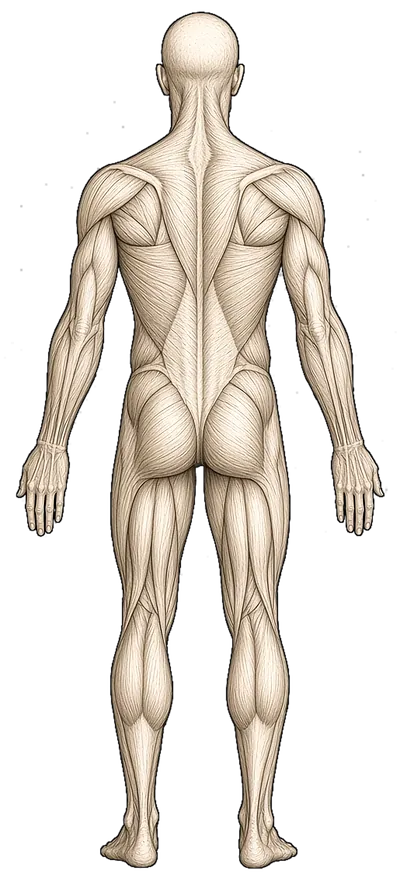
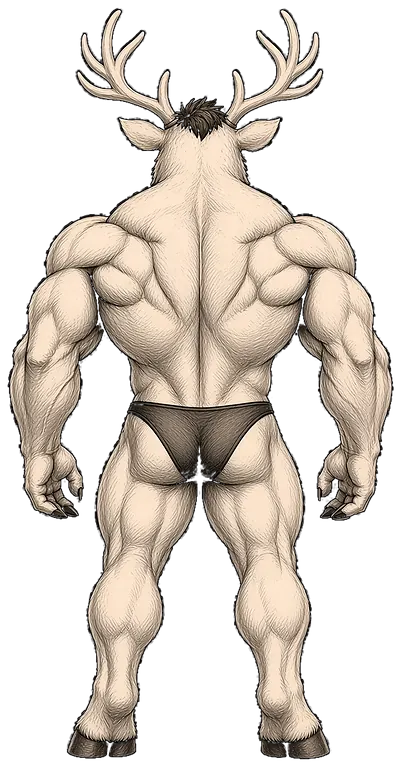
v249: Rudolph mascot anatomy studies, equal-height exercise cards

diff --git a/index.html b/index.html
@@ -1030,22 +1030,19 @@
     .exercise-card .exercise-btn:active { background: transparent; }
     .exercise-card .exercise-btn h2 { margin: 0; padding: 0; font-size: 19px; font-weight: 800; line-height: 1.2; overflow-wrap: anywhere; }
     .exercise-card .exercise-btn .scheme { margin: 3px 0 8px; font-size: 13px; font-weight: 600; line-height: 1.3; color: var(--mute); }
-    .ex-card-body { display: flex; align-items: stretch; gap: 8px; min-width: 0; }
-    .ex-card-copy { flex: 1 1 0; min-width: 0; }
+    .ex-card-body { display: block; position: relative; min-width: 0; padding-right: 124px; }
+    .ex-card-copy { min-width: 0; }
     .ex-muscle {
-      flex: 0 0 40%;
-      width: 40%;
-      max-width: 152px;
-      min-width: 100px;
-      min-height: 124px;
+      position: absolute;
+      right: 0;
+      top: 0;
+      bottom: 0;
+      width: 116px;
       color: var(--mute);
       pointer-events: none;
-      align-self: stretch;
-      display: flex;
-      align-items: center;
-      justify-content: center;
+      overflow: hidden;
     }
-    .ex-muscle svg { width: 100%; height: 100%; display: block; overflow: hidden; }
+    .ex-muscle svg { width: 100%; height: 100%; display: block; }
     .ex-muscle-hit.secondary { fill: var(--acc); fill-opacity: 0.28; stroke: none; mix-blend-mode: color; }
     .ex-muscle-glow { fill: var(--acc); fill-opacity: 0.32; filter: blur(8px); stroke: none; }
     .ex-muscle-hit.primary { fill: var(--acc); fill-opacity: 0.52; stroke: none; mix-blend-mode: color; filter: drop-shadow(0 0 4px var(--acc)); }
@@ -5108,53 +5105,53 @@
 
     const MUSCLE_BACK_VIEW = { lats: 1, upperBack: 1, traps: 1, rearDelts: 1, hamstrings: 1, calves: 1, glutes: 1 };
     const MUSCLE_FIGURE_SRC = { front: "figures/anatomy-front.webp", back: "figures/anatomy-back.webp" };
-    const MUSCLE_FIGURE_SIZE = { w: 515, h: 1143 };
+    const MUSCLE_FIGURE_SIZE = { w: 620, h: 1200 };
     const MUSCLE_CROP = {
       front: {
-        neck: [148, 0, 224, 236],
-        chest: [55, 140, 408, 290],
-        shoulders: [40, 145, 438, 270],
-        triceps: [0, 160, 515, 335],
-        biceps: [0, 160, 515, 335],
-        abs: [135, 210, 248, 285],
-        quads: [140, 475, 238, 430],
-        calves: [150, 755, 218, 380],
-        traps: [110, 140, 298, 260]
+        neck: [140, 0, 356, 430],
+        chest: [60, 280, 500, 350],
+        shoulders: [70, 240, 480, 460],
+        triceps: [0, 300, 620, 420],
+        biceps: [0, 300, 620, 420],
+        abs: [155, 360, 326, 330],
+        quads: [165, 640, 306, 430],
+        calves: [175, 900, 268, 290],
+        traps: [140, 260, 356, 260]
       },
       back: {
-        neck: [148, 0, 224, 230],
-        traps: [115, 15, 288, 300],
-        rearDelts: [50, 140, 418, 265],
-        upperBack: [90, 125, 338, 330],
-        lats: [85, 145, 348, 355],
-        triceps: [0, 160, 515, 335],
-        glutes: [145, 448, 228, 285],
-        hamstrings: [140, 468, 238, 430],
-        calves: [150, 755, 218, 385]
+        neck: [140, 0, 356, 420],
+        traps: [140, 80, 356, 330],
+        rearDelts: [70, 230, 480, 450],
+        upperBack: [130, 275, 376, 340],
+        lats: [80, 300, 476, 360],
+        triceps: [0, 300, 620, 420],
+        glutes: [170, 575, 296, 260],
+        hamstrings: [165, 620, 306, 430],
+        calves: [175, 900, 268, 290]
       }
     };
     const MUSCLE_HIGHLIGHT = {
       front: {
-        neck: "M236 155C232 172 236 198 248 210C258 216 268 210 280 198C284 172 280 155 258 150C246 150 239 152 236 155Z",
-        traps: "M188 188C165 200 150 218 165 230C200 222 230 208 258 214C258 202 258 194 258 186C230 186 205 186 188 188Z M 328 188 C 351 200 366 218 351 230 C 316 222 286 208 258 214 C 258 202 258 194 258 186 C 286 186 311 186 328 188 Z",
-        shoulders: "M132 210C108 228 104 268 126 302C150 314 172 294 174 262C172 232 156 210 132 210Z M 384 210 C 408 228 412 268 390 302 C 366 314 344 294 342 262 C 344 232 360 210 384 210 Z",
-        chest: "M200 244C178 252 170 282 176 314C188 336 224 344 256 328C258 298 254 262 240 248C224 238 210 240 200 244Z M 316 244 C 338 252 346 282 340 314 C 328 336 292 344 260 328 C 258 298 262 262 276 248 C 292 238 306 240 316 244 Z",
-        biceps: "M108 290C94 314 94 360 108 398C126 408 142 388 142 350C140 314 124 290 108 290Z M 408 290 C 422 314 422 360 408 398 C 390 408 374 388 374 350 C 376 314 392 290 408 290 Z",
-        triceps: "M82 275C68 305 68 368 82 420C98 428 112 395 108 340C104 300 96 278 82 275Z M 434 275 C 448 305 448 368 434 420 C 418 428 404 395 408 340 C 412 300 420 278 434 275 Z",
-        abs: "M214 324C206 350 206 408 216 452C230 466 248 466 258 460C258 400 258 350 258 324C242 320 226 320 214 324Z M190 345C178 375 178 428 194 462C210 470 224 450 226 418C226 380 214 350 200 345C196 343 192 343 190 345Z M 302 324 C 310 350 310 408 300 452 C 286 466 268 466 258 460 C 258 400 258 350 258 324 C 274 320 290 320 302 324 Z M 326 345 C 338 375 338 428 322 462 C 306 470 292 450 290 418 C 290 380 302 350 316 345 C 320 343 324 343 326 345 Z",
-        quads: "M190 522C170 560 160 650 170 745C184 778 216 780 232 752C244 680 244 585 230 532C218 512 198 510 190 522Z M222 705C214 742 214 772 228 788C246 794 258 776 258 752C256 724 240 704 222 705Z M 326 522 C 346 560 356 650 346 745 C 332 778 300 780 284 752 C 272 680 272 585 286 532 C 298 512 318 510 326 522 Z M 294 705 C 302 742 302 772 288 788 C 270 794 258 776 258 752 C 260 724 276 704 294 705 Z",
-        calves: "M192 805C178 850 174 925 184 998C198 1024 224 1018 230 975C232 900 220 830 202 808C198 804 194 804 192 805Z M 324 805 C 338 850 342 925 332 998 C 318 1024 292 1018 286 975 C 284 900 296 830 314 808 C 318 804 322 804 324 805 Z"
+        neck: "M248 348C242 368 252 392 285 404C318 412 351 404 384 392C394 368 384 348 318 340C285 338 254 340 248 348Z",
+        traps: "M200 315C165 335 155 365 185 380C230 368 275 348 318 358C318 340 318 328 318 318C270 312 230 312 200 315Z M 436 315 C 471 335 481 365 451 380 C 406 368 361 348 318 358 C 318 340 318 328 318 318 C 366 312 406 312 436 315 Z",
+        shoulders: "M125 340C80 365 70 430 110 490C160 510 200 470 205 420C200 370 165 335 125 340Z M 511 340 C 556 365 566 430 526 490 C 476 510 436 470 431 420 C 436 370 471 335 511 340 Z",
+        chest: "M200 375C160 395 155 455 180 500C225 522 275 512 314 488C318 440 305 390 255 372C230 365 212 368 200 375Z M 436 375 C 476 395 481 455 456 500 C 411 522 361 512 322 488 C 318 440 331 390 381 372 C 406 365 424 368 436 375 Z",
+        biceps: "M95 390C55 425 42 505 58 585C72 645 120 668 160 625C185 580 182 500 160 435C142 395 118 378 95 390Z M 541 390 C 581 425 594 505 578 585 C 564 645 516 668 476 625 C 451 580 454 500 476 435 C 494 395 518 378 541 390 Z",
+        triceps: "M40 380C14 430 8 530 24 630C36 690 78 712 108 665C120 600 108 500 95 425C82 385 62 368 40 380Z M 596 380 C 622 430 628 530 612 630 C 600 690 558 712 528 665 C 516 600 528 500 541 425 C 554 385 574 368 596 380 Z",
+        abs: "M235 500C218 540 218 595 235 635C260 655 295 655 318 645C318 575 318 530 318 500C285 492 255 492 235 500Z M200 520C180 560 182 615 205 650C230 662 255 640 258 600C258 555 235 525 215 518C208 516 204 516 200 520Z M 401 500 C 418 540 418 595 401 635 C 376 655 341 655 318 645 C 318 575 318 530 318 500 C 351 492 381 492 401 500 Z M 436 520 C 456 560 454 615 431 650 C 406 662 381 640 378 600 C 378 555 401 525 421 518 C 428 516 432 516 436 520 Z",
+        quads: "M205 675C175 735 168 845 190 930C215 960 255 955 275 905C290 805 285 725 260 680C240 655 218 658 205 675Z M245 850C232 900 235 940 258 958C285 968 305 945 308 910C306 875 275 848 245 850Z M 431 675 C 461 735 468 845 446 930 C 421 960 381 955 361 905 C 346 805 351 725 376 680 C 396 655 418 658 431 675 Z M 391 850 C 404 900 401 940 378 958 C 351 968 331 945 328 910 C 330 875 361 848 391 850 Z",
+        calves: "M205 960C185 1005 180 1075 205 1125C230 1148 265 1138 272 1085C275 1025 250 970 220 958C214 955 208 956 205 960Z M 431 960 C 451 1005 456 1075 431 1125 C 406 1148 371 1138 364 1085 C 361 1025 386 970 416 958 C 422 955 428 956 431 960 Z"
       },
       back: {
-        neck: "M236 148C232 165 236 188 248 202C258 208 268 202 280 188C284 165 280 148 258 142C246 142 239 144 236 148Z",
-        traps: "M185 165C145 200 130 228 155 248C195 238 230 222 258 240C258 210 258 180 258 158C225 155 200 158 185 165Z M 331 165 C 371 200 386 228 361 248 C 321 238 286 222 258 240 C 258 210 258 180 258 158 C 291 155 316 158 331 165 Z",
-        rearDelts: "M128 208C105 226 102 262 122 294C148 304 170 284 172 256C168 226 150 208 128 208Z M 388 208 C 411 226 414 262 394 294 C 368 304 346 284 344 256 C 348 226 366 208 388 208 Z",
-        upperBack: "M205 238C218 230 240 232 258 246C258 282 250 322 238 345C220 335 205 288 205 238Z M 311 238 C 298 230 276 232 258 246 C 258 282 266 322 278 345 C 296 335 311 288 311 238 Z",
-        lats: "M148 255C120 310 122 395 158 468C188 485 220 445 226 380C224 320 198 270 148 255Z M 368 255 C 396 310 394 395 358 468 C 328 485 296 445 290 380 C 292 320 318 270 368 255 Z",
-        triceps: "M80 265C64 305 64 375 80 440C98 448 112 415 110 350C106 300 94 270 80 265Z M108 260C116 305 118 370 108 438C124 448 140 415 140 350C138 298 124 262 108 260Z M 436 265 C 452 305 452 375 436 440 C 418 448 404 415 406 350 C 410 300 422 270 436 265 Z M 408 260 C 400 305 398 370 408 438 C 392 448 376 415 376 350 C 378 298 392 262 408 260 Z",
-        glutes: "M190 470C168 495 168 545 190 578C218 594 248 582 258 555C258 520 232 470 205 468C198 467 193 468 190 470Z M 326 470 C 348 495 348 545 326 578 C 298 594 268 582 258 555 C 258 520 284 470 311 468 C 318 467 323 468 326 470 Z",
-        hamstrings: "M180 578C162 622 156 700 166 782C184 798 212 788 220 748C226 680 220 615 202 580C194 570 184 572 180 578Z M214 582C206 640 204 720 216 786C232 800 254 786 258 748C258 680 246 615 232 582C226 574 218 576 214 582Z M 336 578 C 354 622 360 700 350 782 C 332 798 304 788 296 748 C 290 680 296 615 314 580 C 322 570 332 572 336 578 Z M 302 582 C 310 640 312 720 300 786 C 284 800 262 786 258 748 C 258 680 270 615 284 582 C 290 574 298 576 302 582 Z",
-        calves: "M184 805C168 850 166 925 178 995C194 1016 216 1006 220 962C224 895 206 820 190 806C188 804 186 804 184 805Z M214 808C206 860 204 935 216 1000C230 1018 250 1004 252 960C252 892 236 822 220 808C218 806 216 806 214 808Z M 332 805 C 348 850 350 925 338 995 C 322 1016 300 1006 296 962 C 292 895 310 820 326 806 C 328 804 330 804 332 805 Z M 302 808 C 310 860 312 935 300 1000 C 286 1018 266 1004 264 960 C 264 892 280 822 296 808 C 298 806 300 806 302 808 Z"
+        neck: "M248 318C242 338 252 362 285 374C318 382 351 374 384 362C394 338 384 318 318 310C285 308 254 310 248 318Z",
+        traps: "M200 275C145 315 125 360 165 385C230 368 280 348 318 372C318 330 318 295 318 265C265 262 230 265 200 275Z M 436 275 C 491 315 511 360 471 385 C 406 368 356 348 318 372 C 318 330 318 295 318 265 C 371 262 406 265 436 275 Z",
+        rearDelts: "M115 330C75 358 70 420 110 470C160 488 198 450 200 400C195 350 155 325 115 330Z M 521 330 C 561 358 566 420 526 470 C 476 488 438 450 436 400 C 441 350 481 325 521 330 Z",
+        upperBack: "M215 355C235 340 275 342 318 365C318 430 300 495 278 525C250 505 215 430 215 355Z M 421 355 C 401 340 361 342 318 365 C 318 430 336 495 358 525 C 386 505 421 430 421 355 Z",
+        lats: "M145 385C95 460 95 560 160 625C220 645 270 590 278 510C275 440 225 395 145 385Z M 491 385 C 541 460 541 560 476 625 C 416 645 366 590 358 510 C 361 440 411 395 491 385 Z",
+        triceps: "M50 385C25 445 25 545 52 635C90 650 118 580 112 490C106 420 80 385 50 385Z M105 375C118 445 122 545 108 635C140 650 170 575 168 490C165 415 135 375 105 375Z M 586 385 C 611 445 611 545 584 635 C 546 650 518 580 524 490 C 530 420 556 385 586 385 Z M 531 375 C 518 445 514 545 528 635 C 496 650 466 575 468 490 C 471 415 501 375 531 375 Z",
+        glutes: "M205 600C175 640 175 705 210 745C255 765 305 745 318 705C318 655 275 600 230 595C218 593 210 595 205 600Z M 431 600 C 461 640 461 705 426 745 C 381 765 331 745 318 705 C 318 655 361 600 406 595 C 418 593 426 595 431 600 Z",
+        hamstrings: "M200 725C175 785 170 865 188 935C218 962 258 948 272 890C282 810 268 750 245 722C230 708 210 712 200 725Z M250 730C238 800 235 880 255 945C280 962 310 945 318 900C318 820 295 755 278 728C268 715 256 718 250 730Z M 436 725 C 461 785 466 865 448 935 C 418 962 378 948 364 890 C 354 810 368 750 391 722 C 406 708 426 712 436 725 Z M 386 730 C 398 800 401 880 381 945 C 356 962 326 945 318 900 C 318 820 341 755 358 728 C 368 715 380 718 386 730 Z",
+        calves: "M200 960C180 1005 178 1075 200 1128C225 1150 258 1138 265 1085C268 1020 240 972 215 960C210 957 204 957 200 960Z M240 962C228 1010 228 1080 248 1130C270 1148 300 1130 305 1080C306 1020 275 970 250 960C246 958 242 958 240 962Z M 436 960 C 456 1005 458 1075 436 1128 C 411 1150 378 1138 371 1085 C 368 1020 396 972 421 960 C 426 957 432 957 436 960 Z M 396 962 C 408 1010 408 1080 388 1130 C 366 1148 336 1130 331 1080 C 330 1020 361 970 386 960 C 390 958 394 958 396 962 Z"
       }
     };
 
@@ -5212,7 +5209,7 @@
       });
       return '<span class="ex-muscle" data-muscle="' + info.primary + '" data-view="' + view + '" aria-hidden="true"><svg viewBox="' +
         crop[0] + " " + crop[1] + " " + crop[2] + " " + crop[3] +
-        '" preserveAspectRatio="xMidYMid meet" focusable="false">' +
+        '" preserveAspectRatio="xMidYMid slice" focusable="false">' +
         '<image href="' + src + '" width="' + MUSCLE_FIGURE_SIZE.w + '" height="' + MUSCLE_FIGURE_SIZE.h + '" preserveAspectRatio="none"/>' +
         secondary + glow + primary +
         "</svg></span>";

diff --git a/sw.js b/sw.js
@@ -1,7 +1,7 @@
 // Slay the workout: offline service worker (v182).
 // Cache-first for the app shell, so it opens with no signal. When online, each open also fetches
 // the newest index.html in the background, so the next open has updates. Bump VERSION to force a refresh.
-const VERSION = "slay-v248";
+const VERSION = "slay-v249";
 const SHELL = ["./", "./index.html", "./manifest.webmanifest", "./icon-192.png", "./icon-512.png", "./icon-maskable-512.png", "./apple-touch-icon.png", "./sounds/marimba-a3.mp3", "./sounds/marimba-fs3.mp3", "./sounds/marimba-d3.mp3", "./figures/anatomy-front.webp", "./figures/anatomy-back.webp"];
 
 self.addEventListener("install", event => {
